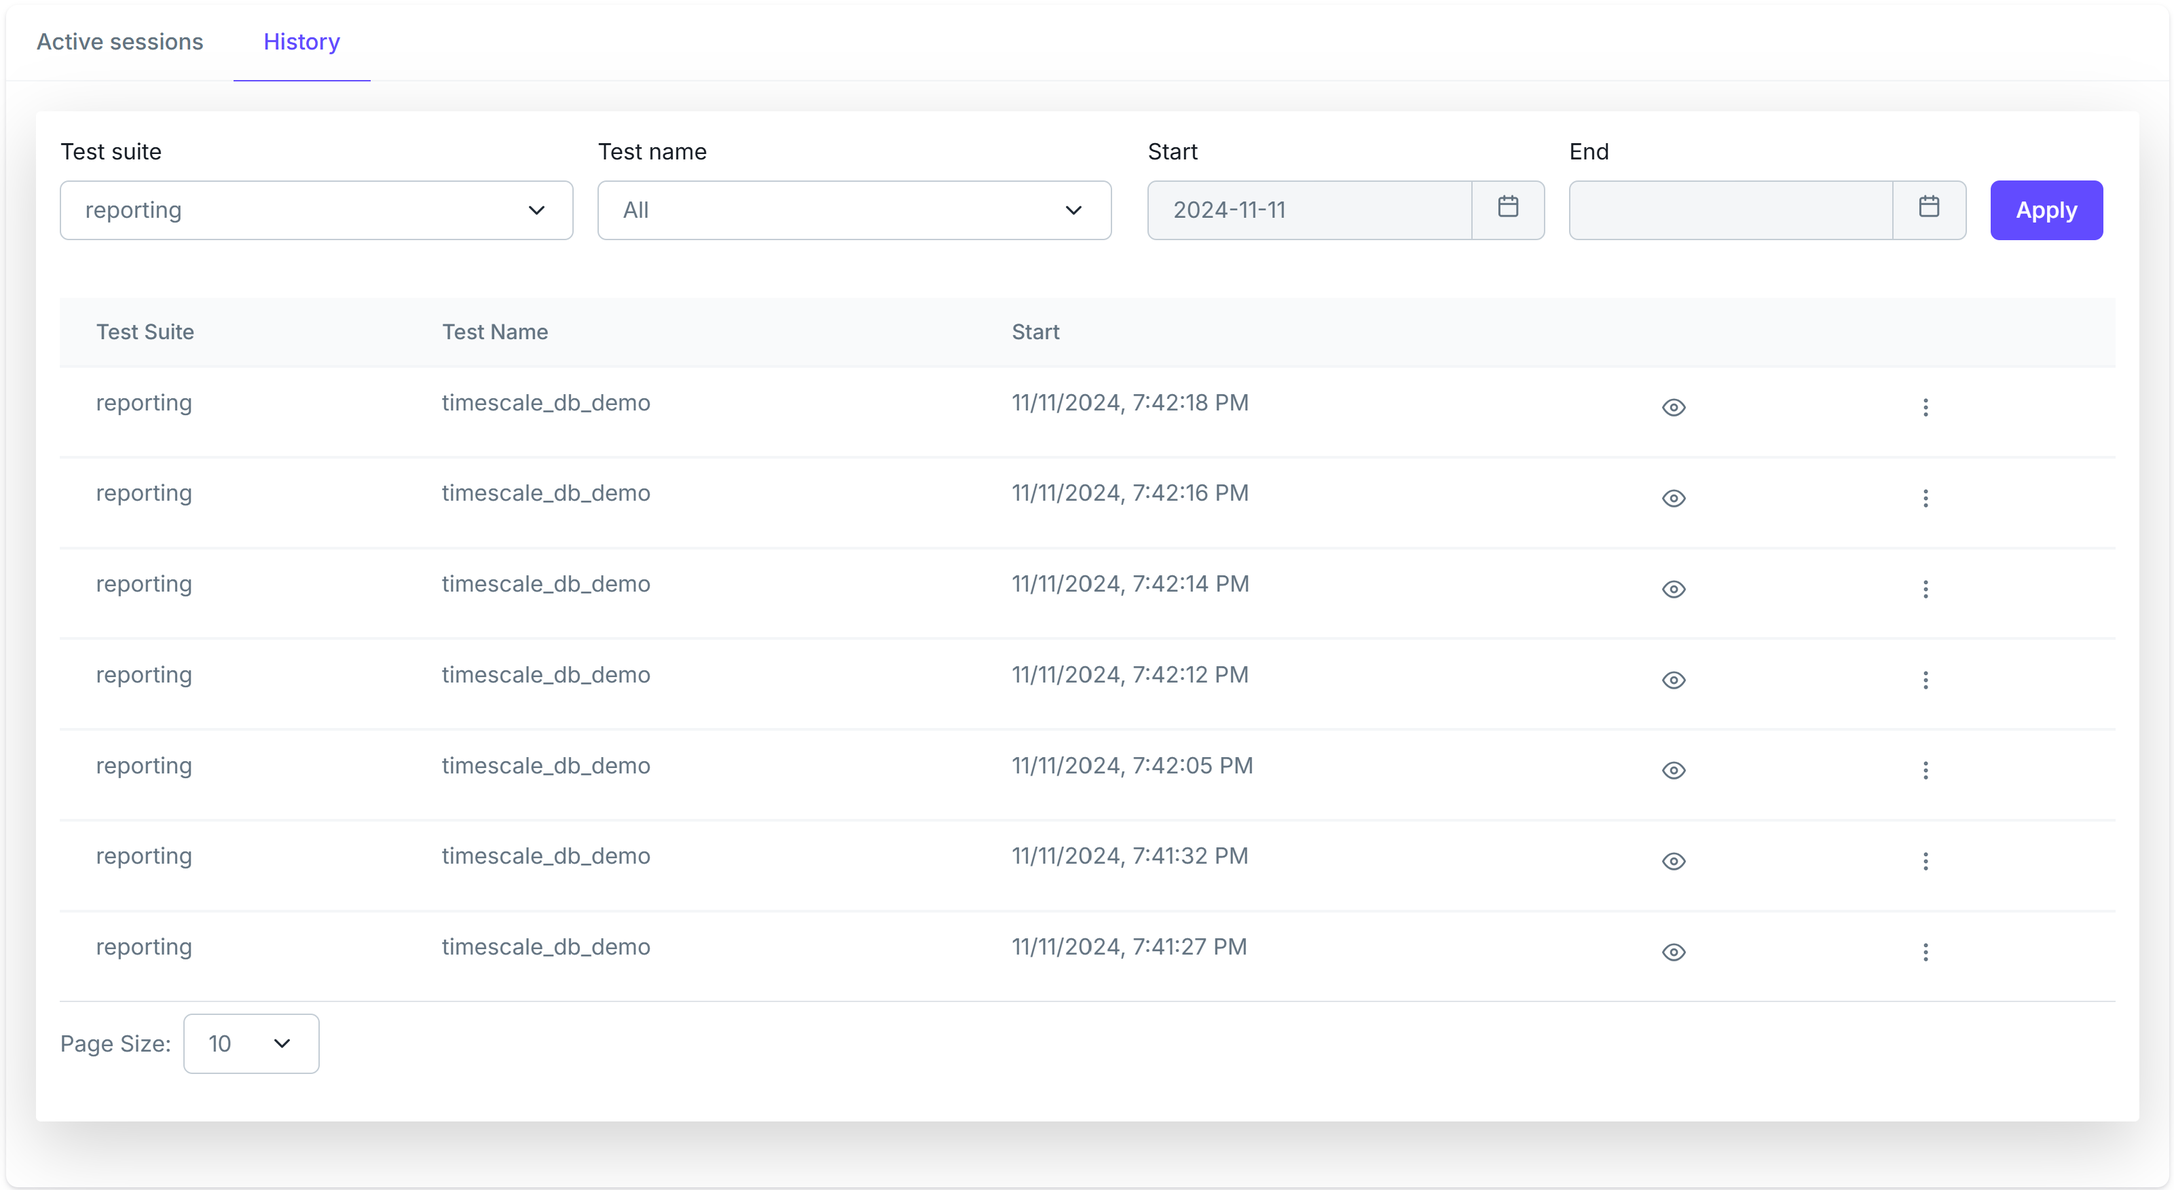
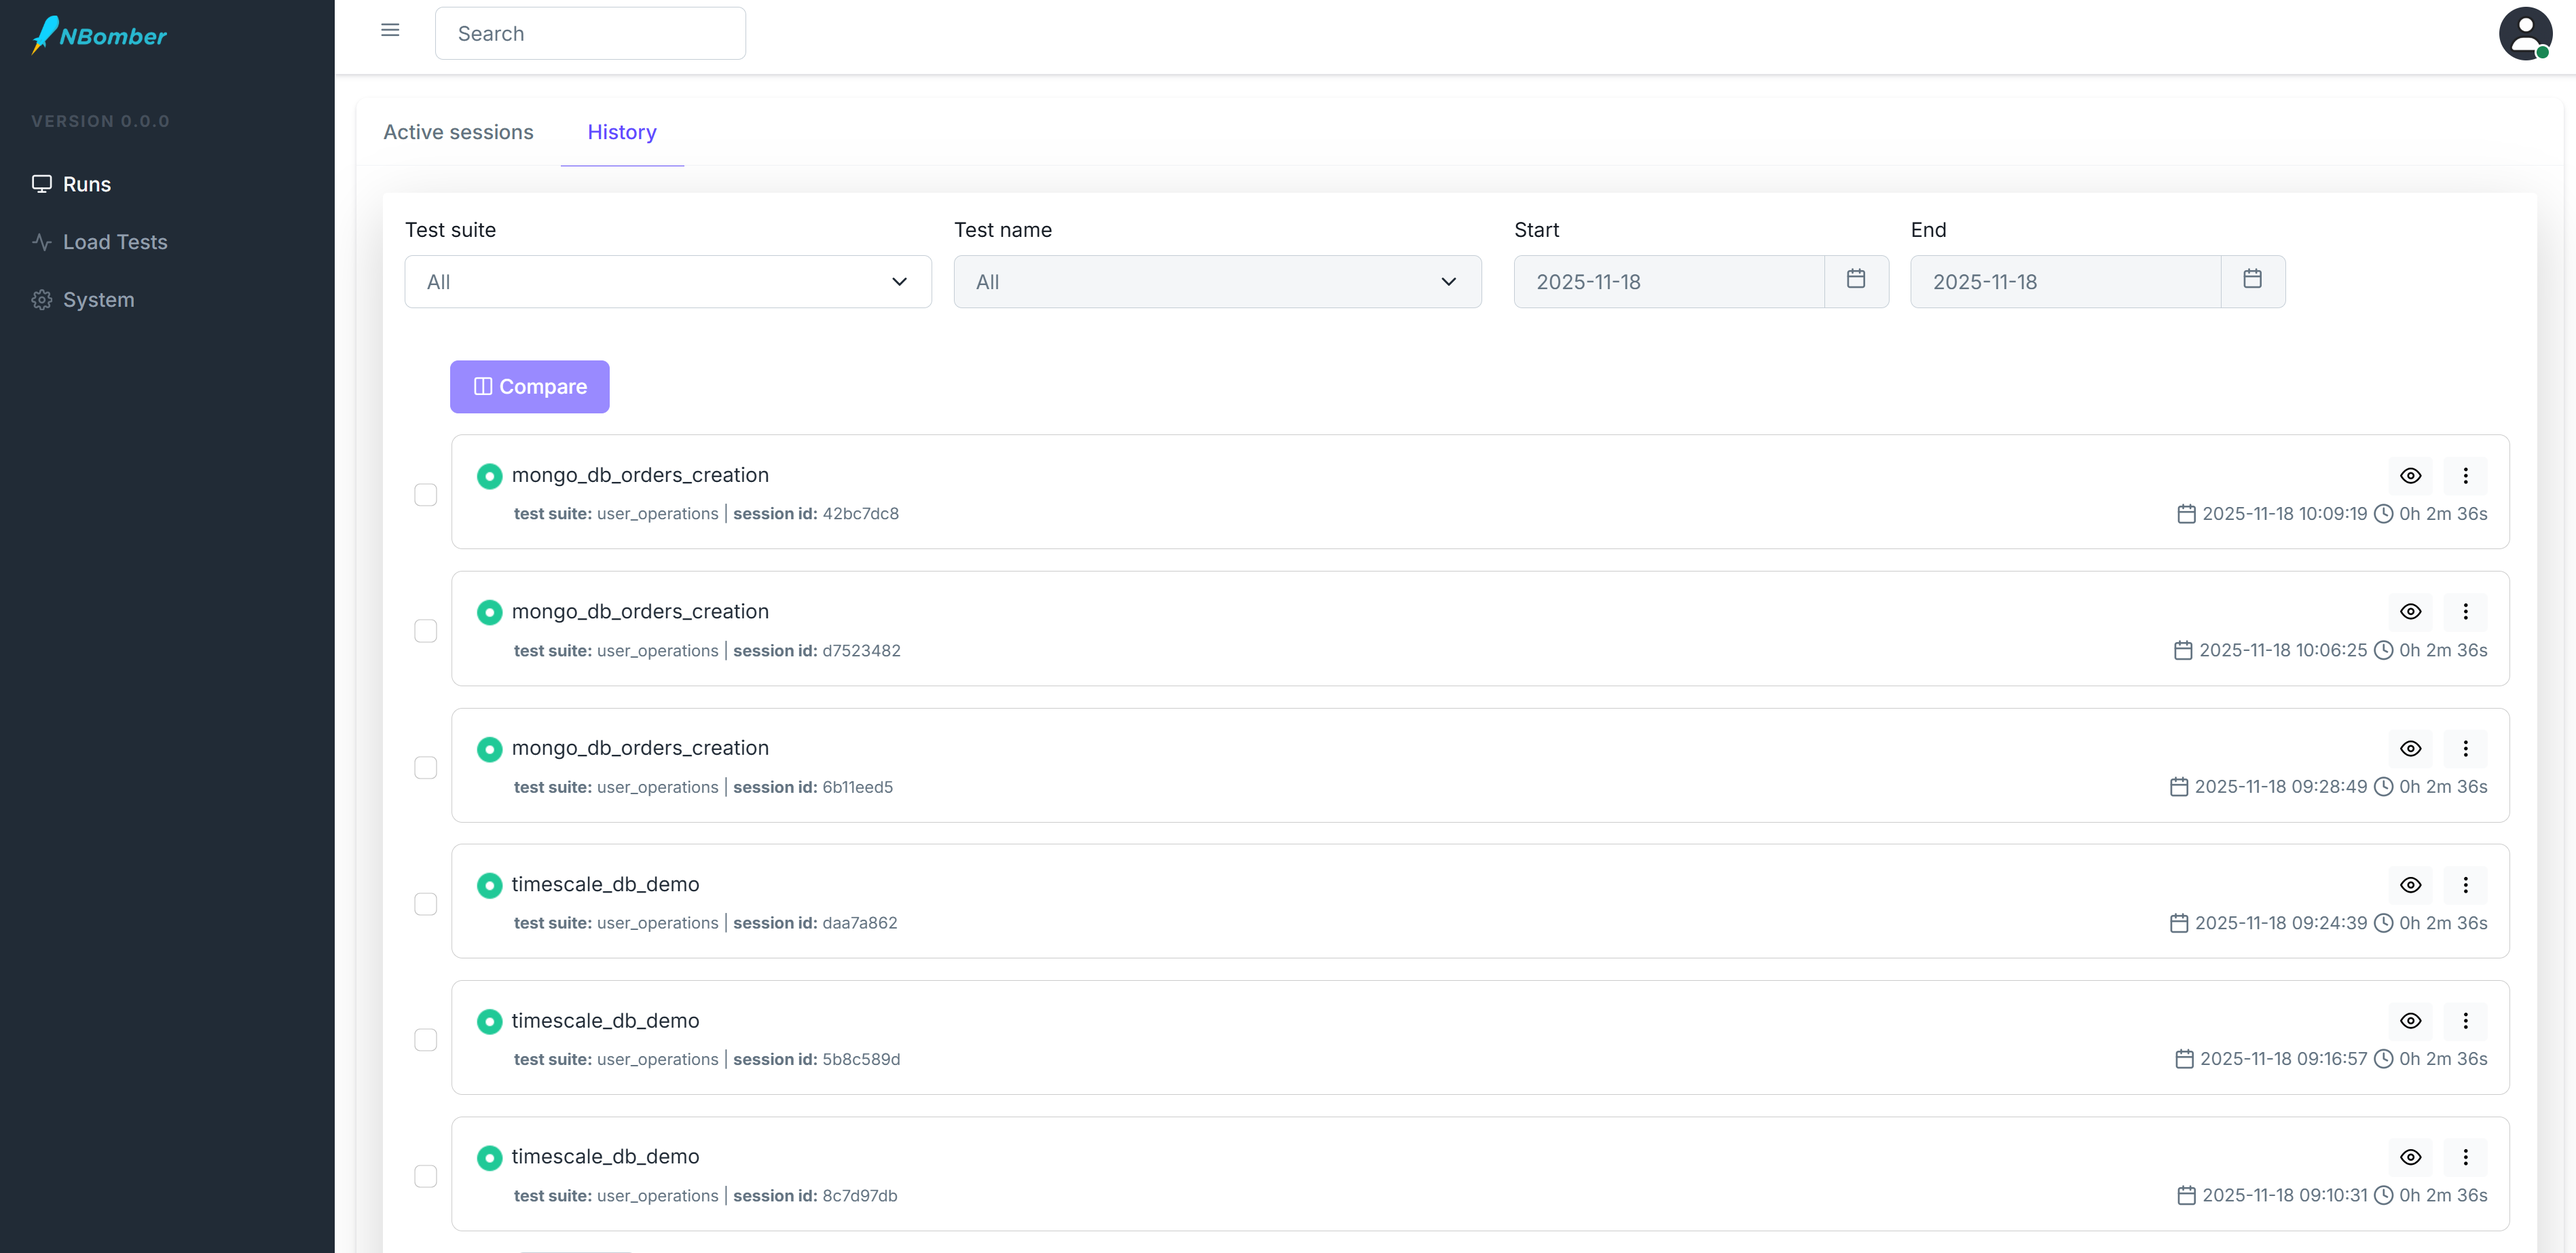
fixed nbomber studio docs

diff --git a/docs/nbomber-studio/overview.md b/docs/nbomber-studio/overview.md
@@ -11,7 +11,9 @@ import EmptyActiveSessionsImage from './img/empty-active-sessions.png';
 import OneActiveSessionImage from './img/one-active-session.png'; 
 import OpenedSessionImage from './img/opened-session.png'; 
 
-<center><img src={NBomberStudioImage} width="90%" height="90%" /></center>
+<center><img src={NBomberStudioImage} width="100%" height="100%" /></center>
+
+> 
 
 <center><img src={HistoryImage} width="100%" height="100%" /></center>
 
@@ -67,7 +69,7 @@ services:
             timescaledb:
                 condition: service_healthy
         environment:
-            DBSETTINGS__CONNECTIONSTRING: "Host=timescaledb;Port=5432;Username=timescaledb;Password=timescaledb;Database=nb_studio_db;Pooling=true;"
+            POSTGRESQL__CONNECTIONSTRING: "Host=timescaledb;Port=5432;Username=timescaledb;Password=timescaledb;Database=nb_studio_db;Pooling=true;"
 
 volumes:
     nb_studio_data:
@@ -81,7 +83,7 @@ volumes:
 For production use, it’s important to specify the exact version of the NBomber Studio image rather than using `latest`.
 
 ```
-image: nbomberdocker/nbomber-studio:0.2.1
+image: nbomberdocker/nbomber-studio:0.5.1
 ```
 :::
 
